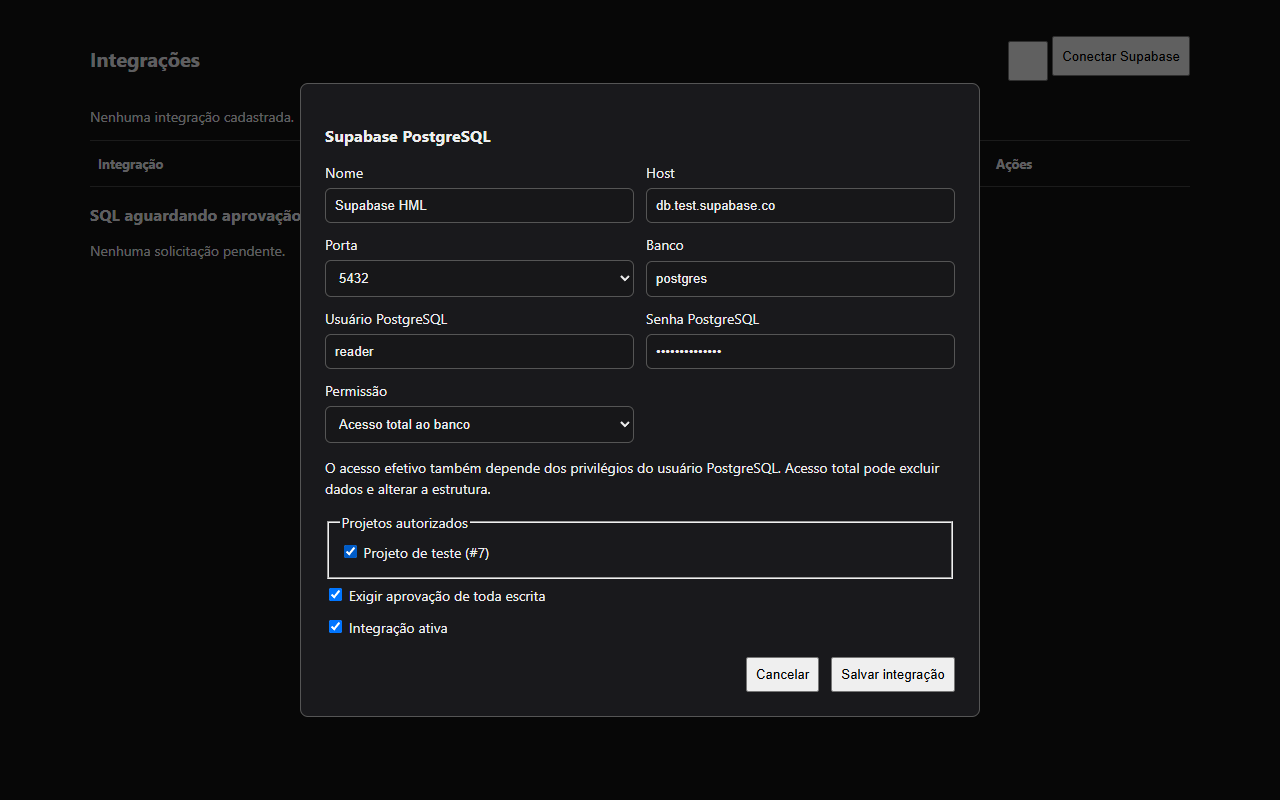
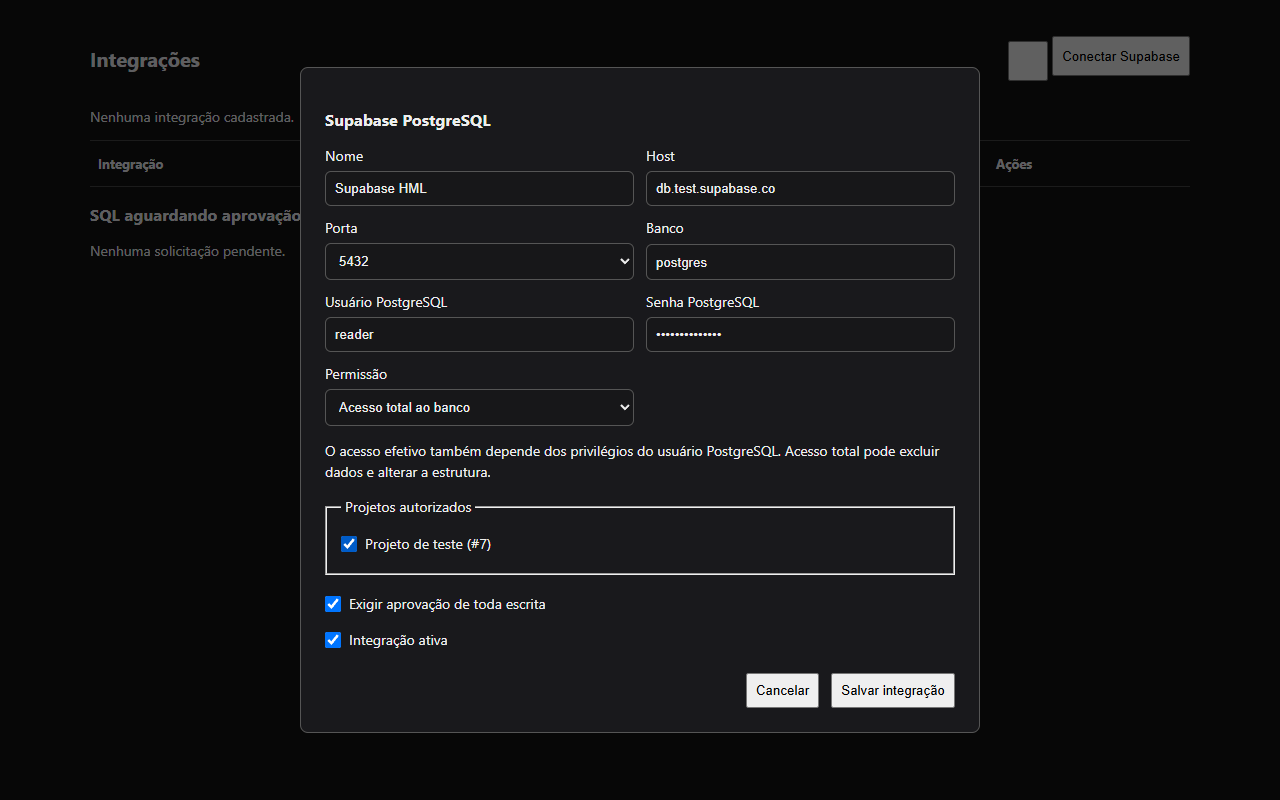
correcao integracao

diff --git a/gitide_server/static/integrations.css b/gitide_server/static/integrations.css
@@ -4,6 +4,10 @@
 .integration-fields input,.integration-fields select {width:100%;min-width:0;box-sizing:border-box;padding:9px;background:var(--bg-primary,#171719);color:var(--text-primary,#eee);border:1px solid var(--border-color,#555);border-radius:6px}
 .integration-projects {max-height:160px;overflow:auto}
 .integration-projects label,.integration-check {display:block;padding:6px 0;overflow-wrap:anywhere}
+.integrations .integration-projects label,.integrations .integration-check {display:flex;align-items:flex-start;gap:8px;line-height:1.5;min-height:24px;margin:0;padding:6px 0}
+.integrations input[type="checkbox"] {width:16px;height:16px;min-width:16px;min-height:16px;flex:0 0 16px;margin:3px 0 0;padding:0}
+.integrations fieldset {min-width:0;padding:10px 14px;margin:12px 0}
+.integrations legend {float:none;position:static;width:auto;margin:0;padding:0 4px;line-height:1.5}
 .integration-actions {white-space:nowrap}
 .integration-actions button {margin:2px;min-width:36px;min-height:36px}
 .integration-approval {border-bottom:1px solid var(--border-color,#555);padding:12px 0}

diff --git a/gitide_server/static/index.html b/gitide_server/static/index.html
@@ -18,7 +18,7 @@
     <link rel="stylesheet" href="/static/mcp-connections.css?v=2">
     <script defer src="/static/mcp-connections.js?v=2"></script>
     <script defer src="/static/mcp-audit.js?v=2"></script>
-    <link rel="stylesheet" href="/static/integrations.css?v=1">
+    <link rel="stylesheet" href="/static/integrations.css?v=2">
     <script defer src="/static/integrations.js?v=1"></script>
     <script defer src="/static/settings-tabs.js?v=11"></script>
     <script defer src="/static/sidebar-workspace-footer.js?v=2"></script>

diff --git a/gitide_server/integrations.py b/gitide_server/integrations.py
@@ -14,6 +14,37 @@ from pglast.parser import parse_sql_json
 from pydantic import BaseModel, ConfigDict, Field
 
 
+class DatabaseDiagnostic(ValueError):
+    """Only allowlisted diagnostics may cross the API boundary."""
+    def __init__(self, code, message):
+        super().__init__(message)
+        self.code = code
+
+
+def database_diagnostic(error):
+    state = getattr(error, "pgcode", None)
+    message = str(error).lower()
+    if state == "28P01" or "password authentication failed" in message:
+        return DatabaseDiagnostic("authentication_failed", "Autenticacao PostgreSQL recusada. Confira o usuario e a senha do banco, nao a chave de API Supabase.")
+    if state == "3D000":
+        return DatabaseDiagnostic("database_not_found", "Banco PostgreSQL nao encontrado. Confira o campo Banco.")
+    if state == "42501":
+        return DatabaseDiagnostic("permission_denied", "O usuario PostgreSQL nao tem permissao para esta operacao.")
+    if state == "57014" or "timeout" in message or "timed out" in message:
+        return DatabaseDiagnostic("timeout", "Tempo limite excedido. Confira rede, firewall e disponibilidade do banco; a consulta tambem pode ter excedido o limite.")
+    if any(value in message for value in ("could not translate host name", "name or service not known", "nodename nor servname", "no such host is known")):
+        return DatabaseDiagnostic("dns_failed", "Nao foi possivel resolver o host. Confira o endereco copiado do painel Connect do Supabase e o DNS do servidor.")
+    if any(value in message for value in ("network is unreachable", "no route to host", "unreachable network")):
+        return DatabaseDiagnostic("network_unreachable", "O servidor nao tem rota ate o banco. Se o endpoint direto exigir IPv6, use os dados completos do Session pooler no painel Connect do Supabase.")
+    if "connection refused" in message or "actively refused" in message:
+        return DatabaseDiagnostic("connection_refused", "Conexao recusada pelo destino. Confira host, porta, firewall e se o projeto Supabase esta ativo.")
+    if any(value in message for value in ("certificate", "root certificate", "sslrootcert", "ssl error", "tls")):
+        return DatabaseDiagnostic("tls_failed", "Falha na verificacao TLS. Confira certificados raiz do servidor e o host oficial. A validacao SSL permanece obrigatoria.")
+    if isinstance(error, psycopg2.OperationalError):
+        return DatabaseDiagnostic("connection_failed", "Falha ao conectar ao PostgreSQL. Confira os dados do painel Connect e a conectividade do servidor.")
+    return DatabaseDiagnostic("database_operation_failed", "A operacao PostgreSQL falhou. Confira o SQL e os privilegios; detalhes sensiveis foram omitidos.")
+
+
 class SupabaseConfig(BaseModel):
     model_config = ConfigDict(extra="forbid")
     name: str = Field(min_length=1, max_length=100)
@@ -151,8 +182,8 @@ class Integrations:
                             pgsql.Identifier(created.get("schemaname") or ("pg_temp" if created.get("relpersistence") == "t" else "public")), pgsql.Identifier(created["relname"])))
                 conn.commit()
                 return result
-        except Exception:
-            raise ValueError("Falha PostgreSQL: verifique conexao, credenciais, privilegios ou timeout. Detalhes sensiveis foram omitidos.") from None
+        except Exception as error:
+            raise database_diagnostic(error) from None
 
     def test(self, identifier):
         return self.query(self.get(identifier), "SELECT current_database(), current_user", "read", 1)

diff --git a/tests/test_integrations.py b/tests/test_integrations.py
@@ -99,6 +99,41 @@ class IntegrationTests(unittest.TestCase):
             service.test(self.config['id'])
         self.assertNotIn('secret-db', str(error.exception))
 
+    def test_connection_diagnostics_are_safe(self):
+        import psycopg2
+        from gitide_server.integrations import database_diagnostic
+        cases = {
+            'password authentication failed': 'authentication_failed',
+            'could not translate host name': 'dns_failed',
+            'Network is unreachable': 'network_unreachable',
+            'connection refused': 'connection_refused',
+            'certificate verify failed': 'tls_failed',
+            'connection timeout expired': 'timeout',
+            'unexpected connection failure': 'connection_failed',
+        }
+        for message, code in cases.items():
+            with self.subTest(code=code):
+                diagnostic = database_diagnostic(psycopg2.OperationalError(message + ' secret-db'))
+                self.assertEqual(diagnostic.code, code)
+                self.assertNotIn('secret-db', str(diagnostic))
+
+    def test_test_endpoint_preserves_safe_diagnostic(self):
+        import psycopg2
+        import test_mcp_oauth
+        from gitide_server.integration_routes import routes
+        fixture = test_mcp_oauth.OAuthTests()
+        fixture.setUp()
+        self.addCleanup(fixture.doCleanups)
+        fixture.client.app.router.routes.extend(routes(fixture.provider, self.service))
+        fixture.client.cookies.set('login', 'yes')
+        csrf = fixture.client.get('/api/integrations').json()['csrf_token']
+        with patch.object(self.service, 'connect', side_effect=psycopg2.OperationalError('certificate verify failed: secret-db')):
+            response = fixture.client.post('/api/integrations/' + self.config['id'] + '/test', headers={'X-CSRF-Token': csrf})
+        self.assertEqual(response.status_code, 502)
+        self.assertEqual(response.json()['code'], 'tls_failed')
+        self.assertNotIn('secret-db', response.text)
+        self.assertEqual(response.headers['cache-control'], 'no-store')
+
 
 if __name__ == '__main__':
     unittest.main()

diff --git a/gitide_server/integration_routes.py b/gitide_server/integration_routes.py
@@ -3,6 +3,7 @@ import hmac
 from starlette.responses import JSONResponse
 from starlette.routing import Route
 from starlette.concurrency import run_in_threadpool
+from gitide_server.integrations import DatabaseDiagnostic
 
 
 def routes(oauth, integrations):
@@ -35,6 +36,8 @@ def routes(oauth, integrations):
             data = await request.json()
             result = await run_in_threadpool(integrations.save, data, {p["id"] for p in oauth.list_projects()}, identifier)
             return JSONResponse(result, headers=headers)
+        except DatabaseDiagnostic as error:
+            return JSONResponse({"detail": str(error), "code": error.code}, 502, headers=headers)
         except Exception:
             return JSONResponse({"detail": "Operacao recusada. Verifique campos, host Supabase, projetos, senha e conexao SSL."}, 400, headers=headers)
     return [Route("/api/integrations", manage, methods=["GET", "POST"]),
